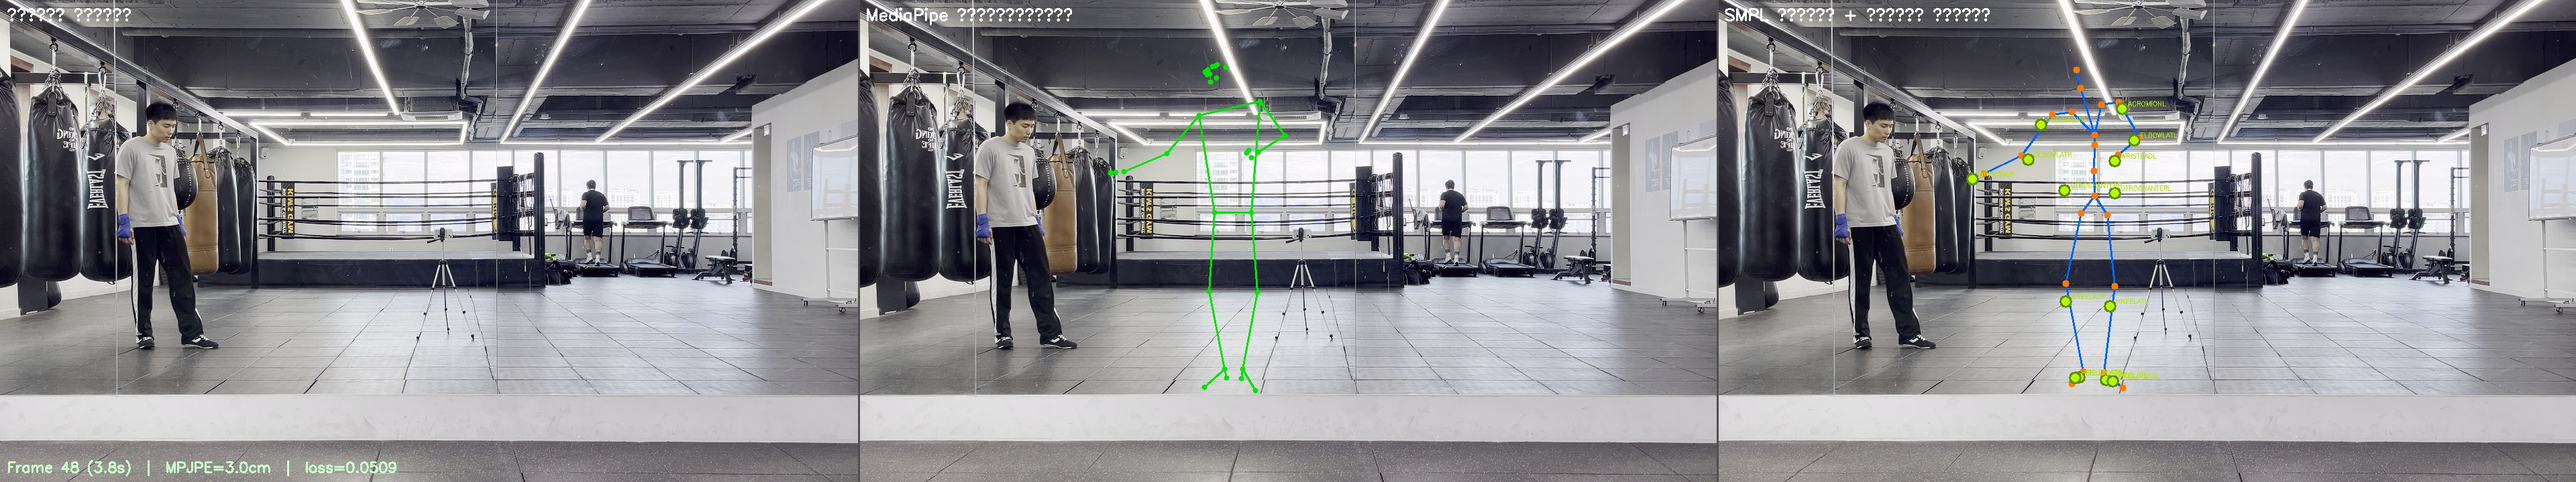
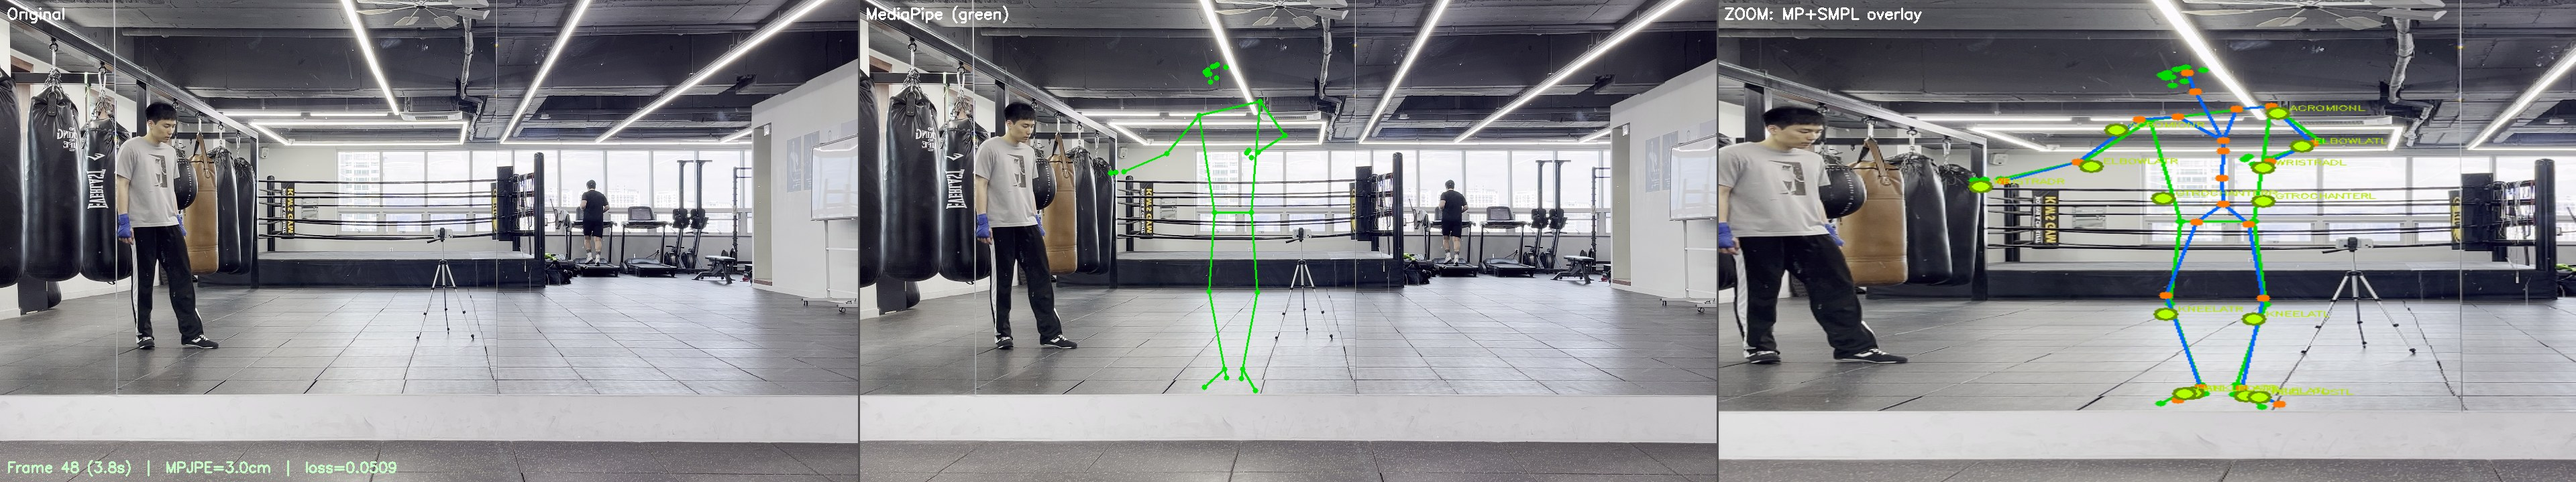
fix: 시각 검증 패널 3 → 사람 영역 자동 크롭+확대 오버레이
- make_panel: 패널 3을 사람 영역 크롭·확대로 교체
  * crop_zoom_person(): MP 랜드마크 bbox 기반 자동 크롭 + 15% 패딩
  * 전체 프레임 → 사람 영역 확대 → MP(초록)+SMPL(주황) 동시 오버레이
  * 사람이 작아 보이는 원거리 프레임에서 스켈레톤 정렬 명확히 확인 가능

- 진단 결과: Frame 48 정상(MPJPE=3.0cm), Frame 96은 MP 오감지가 원인
  * Frame 96: MediaPipe가 배경 물체를 손목으로 오인식 → SMPL도 잘못 피팅
  * SMPL 피팅 엔진 자체는 정상 동작 확인됨

diff --git a/tools/visual_verification.py b/tools/visual_verification.py
@@ -209,26 +209,48 @@ def draw_smpl_overlay(img, joints, virtual_markers, coef_x, coef_y, img_w, img_h
     return img
 
 
-def make_panel(orig_frame, mp_frame, smpl_frame, title, loss, mpjpe_cm=None):
-    """3패널 합성 이미지 생성."""
+def crop_zoom_person(frame, landmarks_img, img_w, img_h, pad_ratio=0.15):
+    """
+    MP 랜드마크 기반 사람 영역 자동 크롭 + img_w×img_h 로 확대.
+    사람이 작아 스켈레톤이 잘 안 보일 때 사용.
+    """
+    xs = [lm['x'] for lm in landmarks_img.values() if lm.get('visibility', 1.0) >= 0.3]
+    ys = [lm['y'] for lm in landmarks_img.values() if lm.get('visibility', 1.0) >= 0.3]
+    if not xs:
+        return frame.copy()
+
+    x0 = max(0, (min(xs) - pad_ratio) * img_w)
+    x1 = min(img_w, (max(xs) + pad_ratio) * img_w)
+    y0 = max(0, (min(ys) - pad_ratio) * img_h)
+    y1 = min(img_h, (max(ys) + pad_ratio) * img_h)
+
+    crop = frame[int(y0):int(y1), int(x0):int(x1)]
+    if crop.size == 0:
+        return frame.copy()
+    return cv2.resize(crop, (img_w, img_h), interpolation=cv2.INTER_LINEAR)
+
+
+def make_panel(orig_frame, mp_frame, zoom_overlay, title, loss, mpjpe_cm=None):
+    """
+    3패널 합성 이미지 생성.
+      [원본 전체] | [MediaPipe 전체(초록)] | [사람 영역 확대 — MP+SMPL 동시]
+    패널 3: 사람 영역을 크롭·확대하여 스켈레톤 정렬을 명확히 확인 가능.
+    """
     h, w = orig_frame.shape[:2]
     panel = np.zeros((h, w * 3, 3), dtype=np.uint8)
 
-    # 패널 배치
-    panel[:, 0:w] = orig_frame
-    panel[:, w:2*w] = mp_frame
-    panel[:, 2*w:3*w] = smpl_frame
+    panel[:, 0:w]     = orig_frame
+    panel[:, w:2*w]   = mp_frame
+    panel[:, 2*w:3*w] = zoom_overlay
 
-    # 구분선
-    cv2.line(panel, (w, 0), (w, h), (80, 80, 80), 2)
+    cv2.line(panel, (w, 0),   (w, h),   (80, 80, 80), 2)
     cv2.line(panel, (2*w, 0), (2*w, h), (80, 80, 80), 2)
 
-    # 상단 라벨
-    for col, label in enumerate(['원본 영상', 'MediaPipe 스켈레톤', 'SMPL 피팅 + 가상 마커']):
-        cv2.putText(panel, label, (col*w + 10, 30),
-                    cv2.FONT_HERSHEY_SIMPLEX, 0.8, (255, 255, 255), 2)
+    labels = ['Original', 'MediaPipe (green)', 'ZOOM: MP+SMPL overlay']
+    for col, label in enumerate(labels):
+        cv2.putText(panel, label, (col*w + 10, 28),
+                    cv2.FONT_HERSHEY_SIMPLEX, 0.75, (255, 255, 255), 2)
 
-    # 제목 + 수치
     info = title
     if mpjpe_cm is not None:
         info += f'  |  MPJPE={mpjpe_cm:.1f}cm'
@@ -346,19 +368,23 @@ def main():
         # ── 패널 1: 원본 ──────────────────────────────────────────
         panel_orig = frame_disp.copy()
 
-        # ── 패널 2: MediaPipe 스켈레톤 ───────────────────────────
+        # ── 패널 2: MediaPipe 스켈레톤만 (초록) ──────────────────
         panel_mp = frame_disp.copy()
         panel_mp = draw_mp_skeleton(panel_mp, lm_img, DISPLAY_W, DISPLAY_H, color=(0, 230, 0))
 
-        # ── 패널 3: SMPL 스켈레톤 + 가상 마커 ────────────────────
-        panel_smpl = frame_disp.copy()
-        panel_smpl = draw_smpl_overlay(
-            panel_smpl, joints, virtual_markers, coef_x, coef_y, DISPLAY_W, DISPLAY_H
-        )
+        # ── 패널 3: 사람 영역 자동 크롭+확대 후 MP+SMPL 동시 오버레이 ──
+        # 크롭 전 전체 프레임에 오버레이를 먼저 그린 뒤 사람 영역만 확대
+        full_overlay = frame_disp.copy()
+        full_overlay = draw_mp_skeleton(
+            full_overlay, lm_img, DISPLAY_W, DISPLAY_H, color=(0, 220, 0))
+        full_overlay = draw_smpl_overlay(
+            full_overlay, joints, virtual_markers, coef_x, coef_y, DISPLAY_W, DISPLAY_H)
+        # 사람 영역으로 크롭 → 전체 패널 크기로 확대
+        panel_zoom = crop_zoom_person(full_overlay, lm_img, DISPLAY_W, DISPLAY_H)
 
         # ── 합성 ─────────────────────────────────────────────────
         title = f'Frame {ref_fidx} ({ts:.1f}s)'
-        panel = make_panel(panel_orig, panel_mp, panel_smpl, title, loss, mpjpe)
+        panel = make_panel(panel_orig, panel_mp, panel_zoom, title, loss, mpjpe)
 
         # 저장
         out_path = os.path.join(args.out_dir, f'verify_frame{ref_fidx:04d}.jpg')
